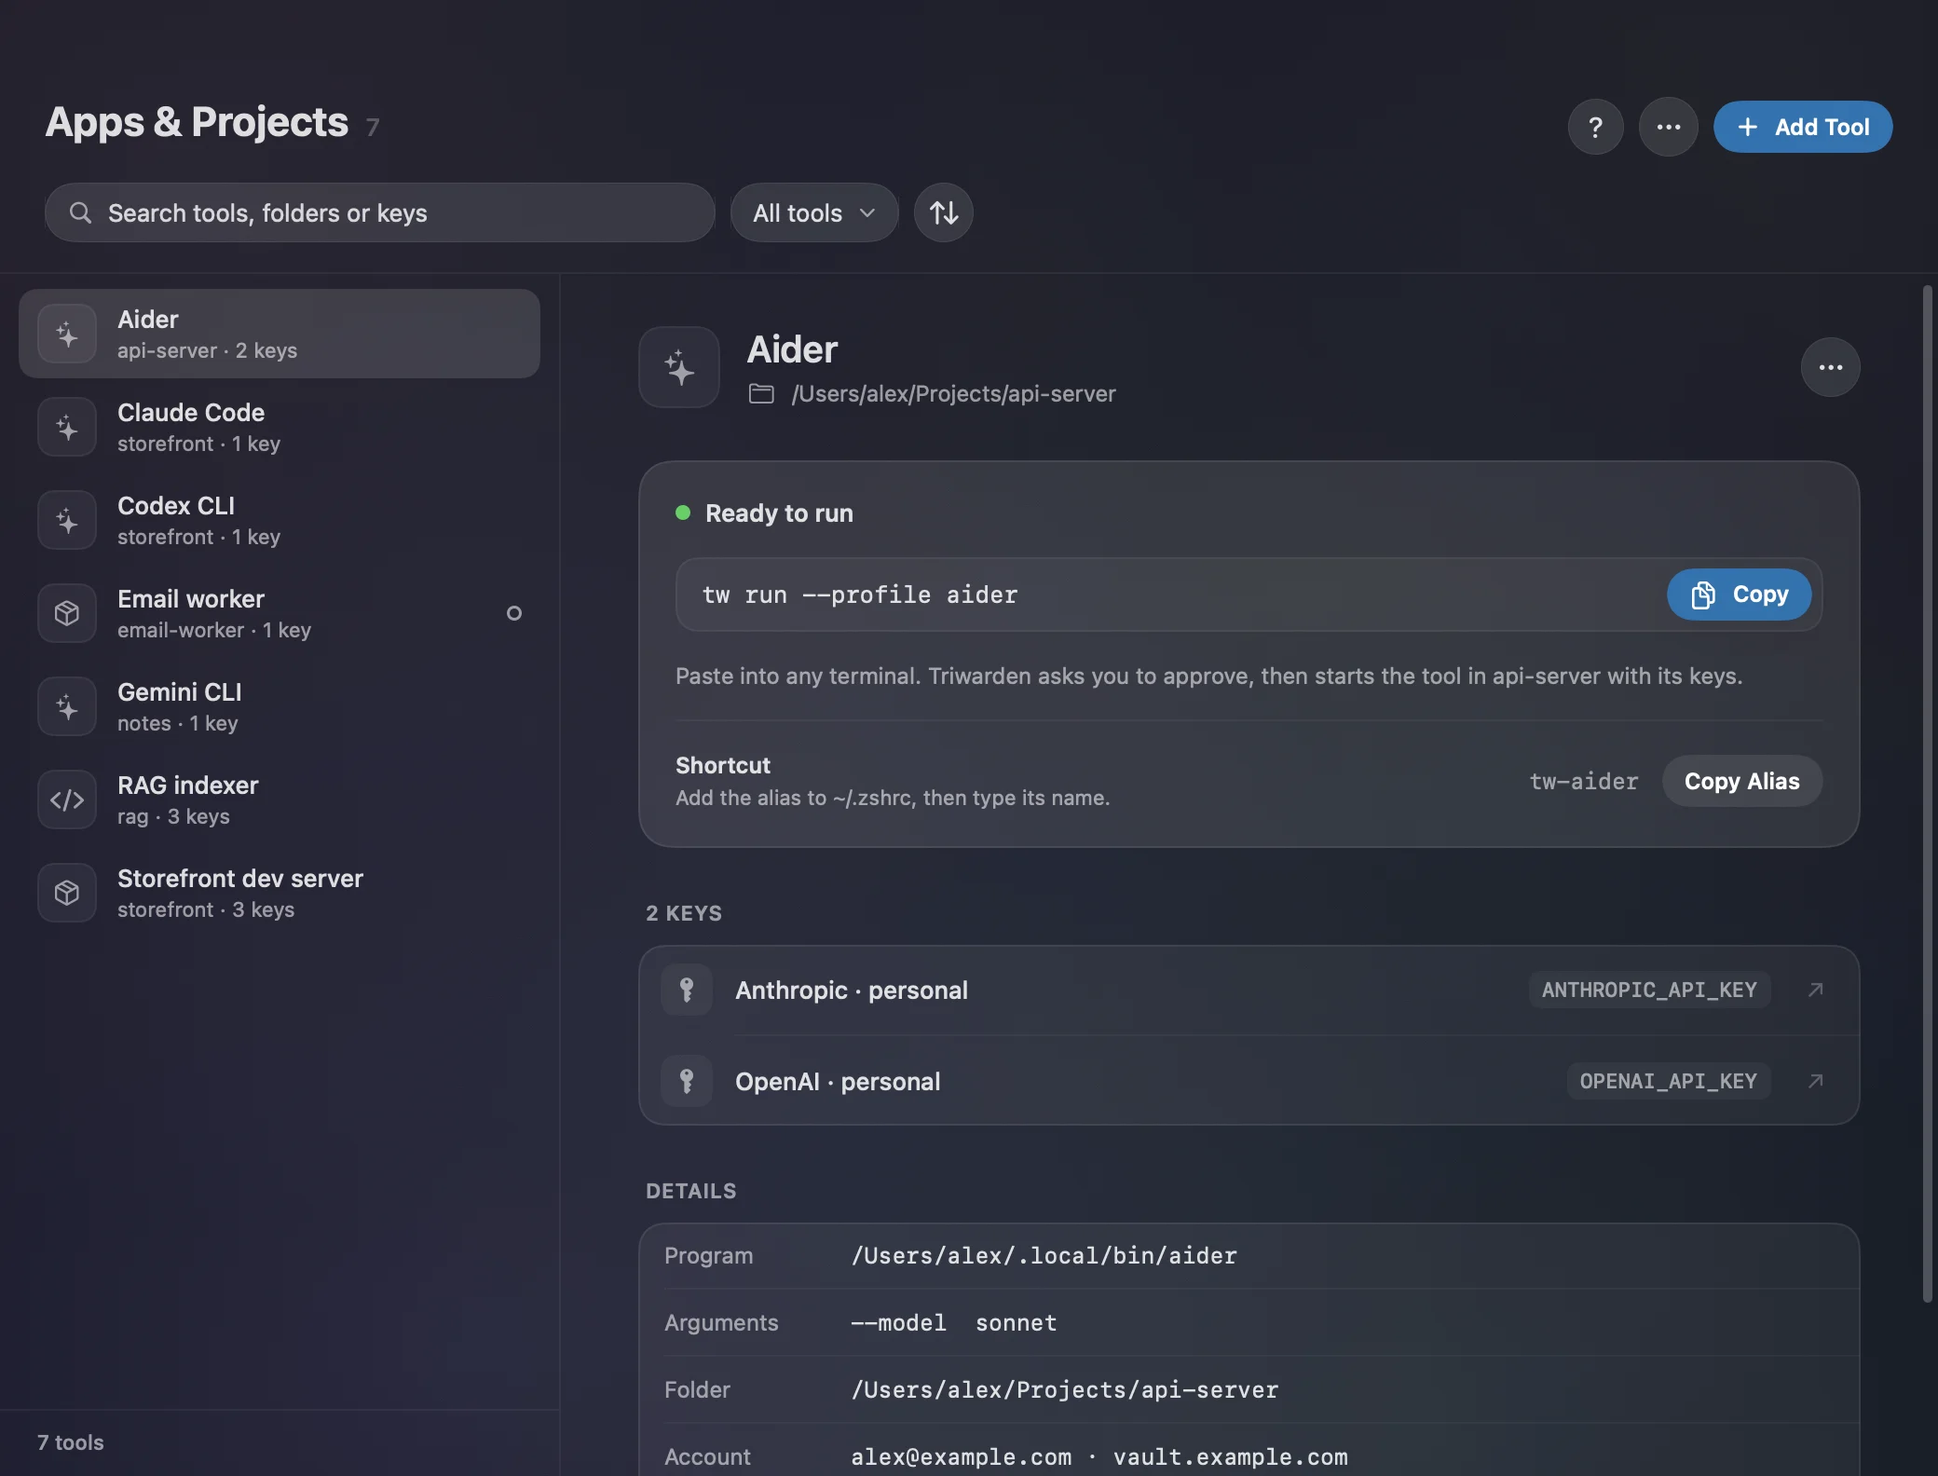
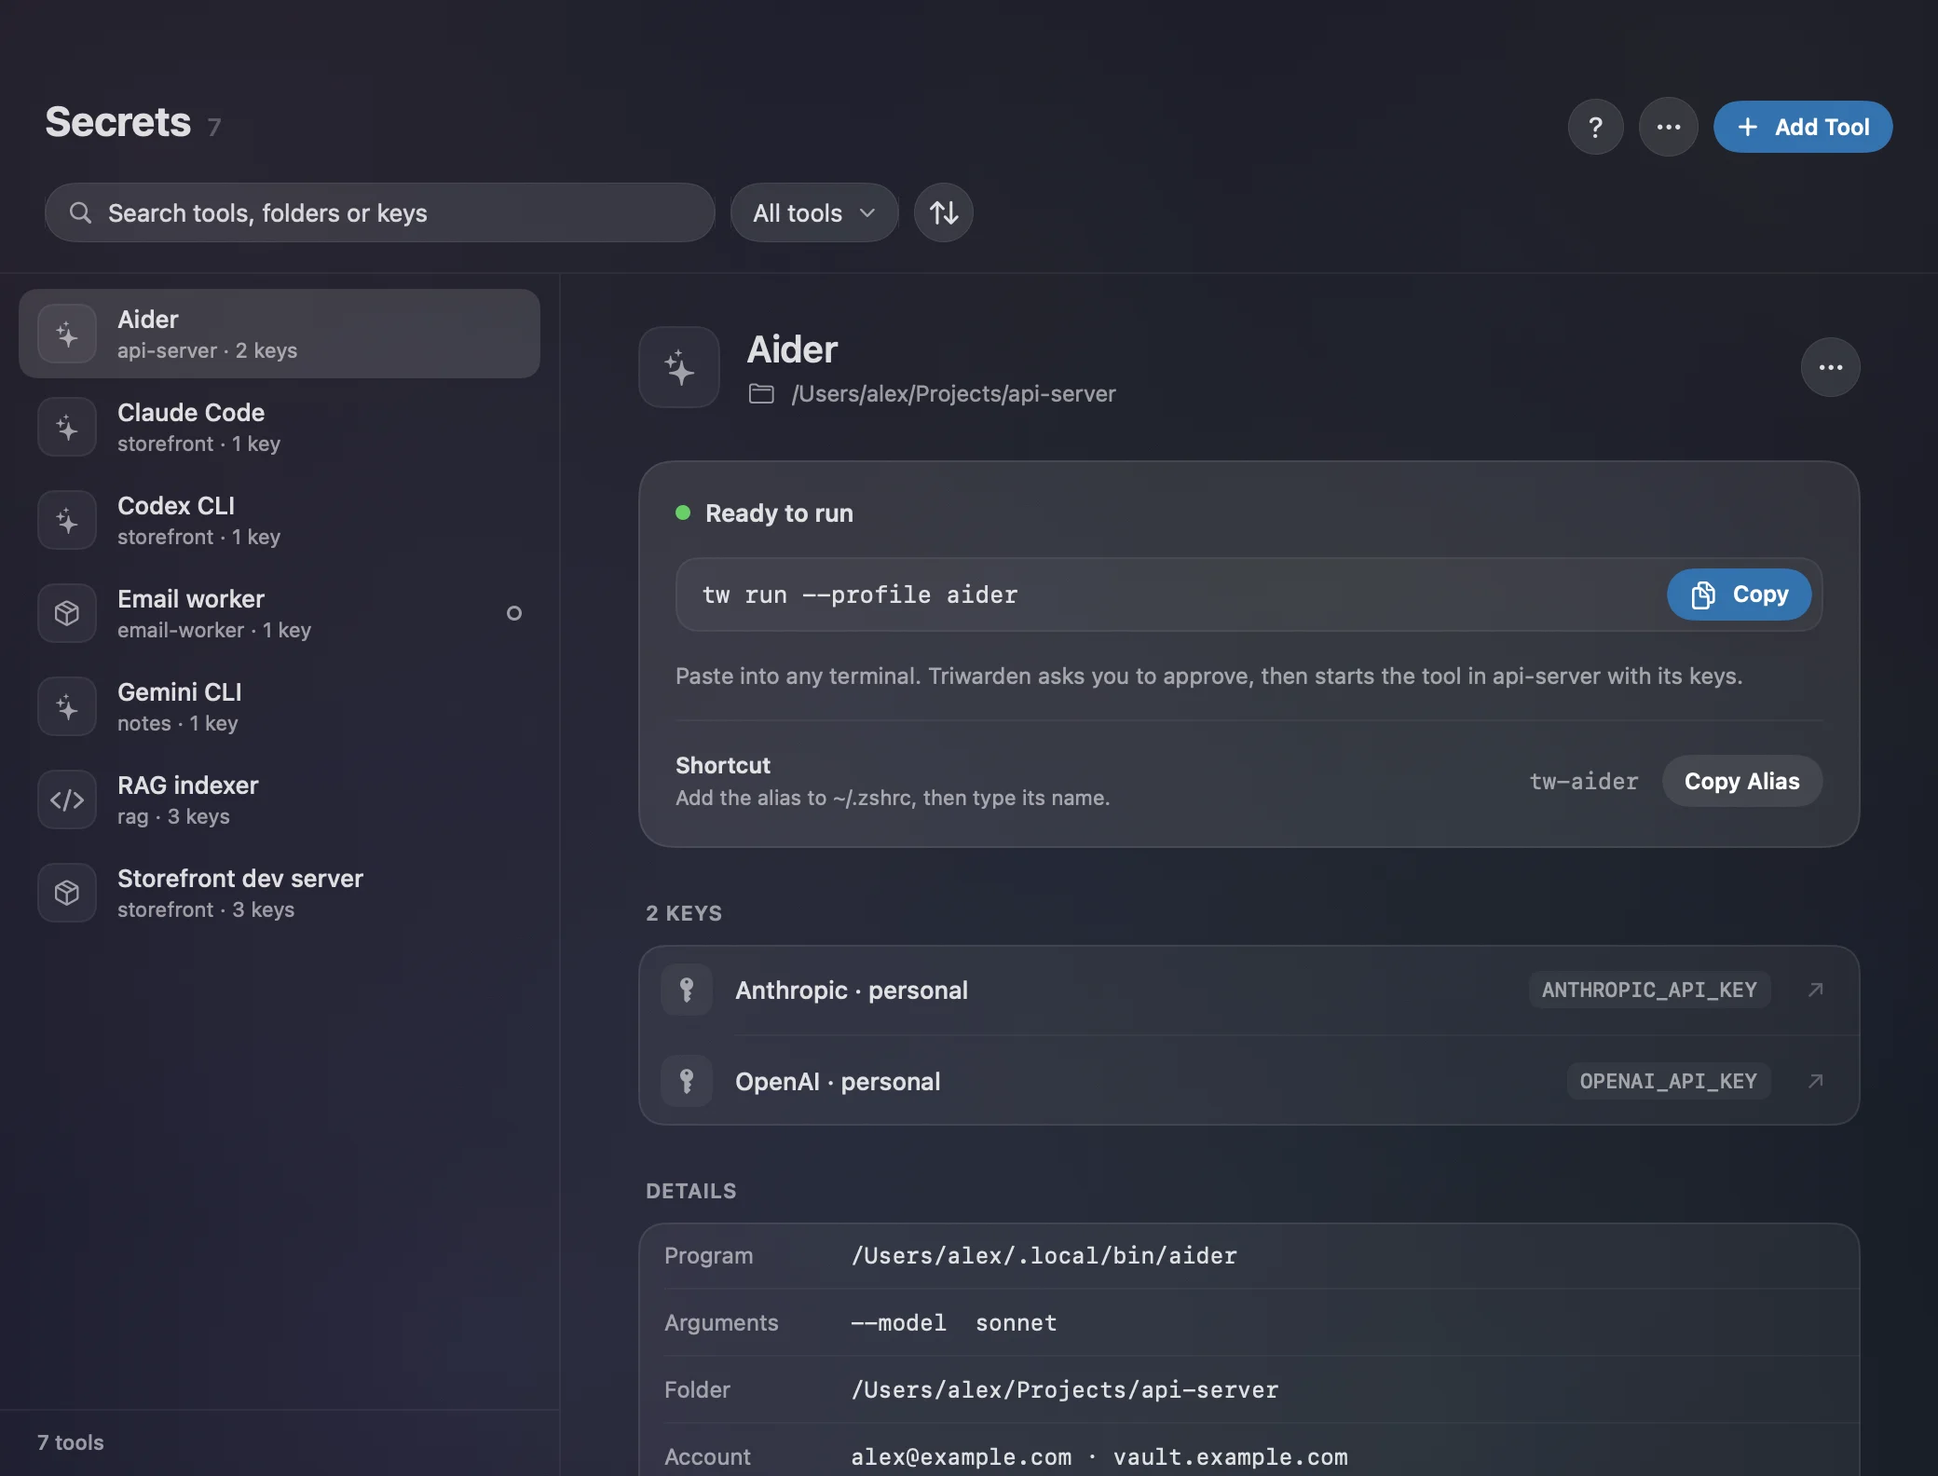
feat: use secrets as the global feature name

Changed region(s): [[0.9688, 0.1856, 1.0, 0.8662], [0.0, 0.0619, 0.1875, 0.0928]]

diff --git a/App/Sources/ToolSetupGuide.swift b/App/Sources/ToolSetupGuide.swift
@@ -243,7 +243,7 @@ struct ToolSetupGuide: View {
             disclosure("If the launch doesn't work") {
                 Text("No approval card: check that tw is installed and Triwarden is open.")
                 Text("Account locked or sync failed: unlock or reconnect, then run it again.")
-                Text("Missing key: open the tool in Apps & Projects and choose the key again.")
+                Text("Missing key: open the tool in Secrets and choose the key again.")
                 Text("Provider error: check the key in your provider account. Never paste key values into a report.")
             }
         }
@@ -265,7 +265,7 @@ struct ToolSetupGuide: View {
                 }
             }
             VStack(spacing: 0) {
-                tip("square.on.square", "Copy the launch from Apps & Projects", "Or run tw run and pick a saved tool.")
+                tip("square.on.square", "Copy the launch from Secrets", "Or run tw run and pick a saved tool.")
                 Divider().opacity(0.4).padding(.leading, 52)
                 tip("timer", "Approve for longer", "Choose 10 minutes or Until lock on the card to skip repeat prompts.")
                 Divider().opacity(0.4).padding(.leading, 52)
@@ -274,7 +274,7 @@ struct ToolSetupGuide: View {
             .background(Color.panelStrong, in: .rect(cornerRadius: 14, style: .continuous))
             .overlay(RoundedRectangle(cornerRadius: 14, style: .continuous).strokeBorder(Color.panelEdge))
             HStack(spacing: 10) {
-                Button("Open Apps & Projects") { dismiss(); model.requestedSection = .toolLaunches }.buttonStyle(.appPrimarySmall)
+                Button("Open Secrets") { dismiss(); model.requestedSection = .toolLaunches }.buttonStyle(.appPrimarySmall)
                 Button("Review Access") { dismiss(); model.requestedSection = .access }.buttonStyle(.appSecondarySmall)
                 Spacer()
                 if target != nil {
@@ -307,8 +307,8 @@ struct ToolSetupGuide: View {
                 .overlay(RoundedRectangle(cornerRadius: 14, style: .continuous).strokeBorder(Color.panelEdge))
                 if target != nil, !toolReady {
                     HStack(spacing: 10) {
-                        Text("Unlock its account, resume it, or fix its keys in Apps & Projects.").font(.system(size: 11)).foregroundStyle(.secondary)
-                        Button("Open Apps & Projects") { dismiss(); model.requestedToolSelection = selectedTool; model.requestedSection = .toolLaunches }
+                        Text("Unlock its account, resume it, or fix its keys in Secrets.").font(.system(size: 11)).foregroundStyle(.secondary)
+                        Button("Open Secrets") { dismiss(); model.requestedToolSelection = selectedTool; model.requestedSection = .toolLaunches }
                             .buttonStyle(.appSecondarySmall)
                     }.padding(.horizontal, 4)
                 }

diff --git a/App/Sources/SecretsSettings.swift b/App/Sources/SecretsSettings.swift
@@ -9,8 +9,8 @@ struct SecretsSettings: View {
     var body: some View {
         Form {
             Section {
-                Text("Save API keys in your vault. Use Apps & Projects to choose how a tool receives a saved key.")
-                Button("Open Apps & Projects") { model.showToolsAndProjects() }
+                Text("Save API keys in your vault. Use Secrets to choose how a tool receives a saved key.")
+                Button("Open Secrets") { model.showToolsAndProjects() }
                 Button("Setup Guide…") { model.showToolGuide() }
                 Button("Terminal Helper Setup…") { helperSetup = true }
             } header: { Text("Local Tool Access") }
@@ -87,7 +87,7 @@ private struct AdvancedSecretsSettings: View {
                 Text("Save a development command and its credential reference. Launches require approval unless temporary access is still active.")
                     .font(.caption).foregroundStyle(.secondary)
                 if !additionalBindings.isEmpty {
-                    Text("This tool also has \(additionalBindings.count) additional key bindings. They are preserved here; edit them in Apps & Projects.")
+                    Text("This tool also has \(additionalBindings.count) additional key bindings. They are preserved here; edit them in Secrets.")
                         .font(.caption).foregroundStyle(.secondary)
                 }
             } header: { Text("Local Secrets Agent") }
@@ -163,7 +163,7 @@ private struct AdvancedSecretsSettings: View {
                             .font(.system(.body, design: .monospaced))
                     }
                 }
-                Text("Install tw through Apps & Projects › Terminal Helper Setup. Keep Triwarden open and the required accounts unlocked. Each launch requires an online refresh. Command overrides are disabled.")
+                Text("Install tw through Secrets › Terminal Helper Setup. Keep Triwarden open and the required accounts unlocked. Each launch requires an online refresh. Command overrides are disabled.")
                     .font(.caption).foregroundStyle(.secondary)
             }
         }

diff --git a/App/Sources/SecretsController.swift b/App/Sources/SecretsController.swift
@@ -116,7 +116,7 @@ final class SecretsController: NSObject, NSWindowDelegate {
             try server.start()
             self.server = server
         } catch {
-            // Missing settings are normal on first run; other failures appear in Apps & Projects.
+            // Missing settings are normal on first run; other failures appear in Secrets.
             if FileManager.default.fileExists(atPath: store.fileURL.path) { lastError = error.localizedDescription }
             server?.stop(); server = nil
         }
@@ -144,7 +144,7 @@ final class SecretsController: NSObject, NSWindowDelegate {
         }
         let matches = session.items.filter { $0.id == binding.itemID && !$0.isDeleted && !$0.isArchived && $0.isSupported }
         guard matches.count == 1 else {
-            throw SecretsFailure("A selected key is missing or unavailable. Edit this tool in Apps & Projects and select the key again.")
+            throw SecretsFailure("A selected key is missing or unavailable. Edit this tool in Secrets and select the key again.")
         }
         guard !matches[0].reprompt else {
             throw SecretsFailure("This item requires an additional master-password prompt, which tw run does not yet support. Use a dedicated API credential item with an appropriate policy.")
@@ -160,7 +160,7 @@ final class SecretsController: NSObject, NSWindowDelegate {
             let catalog = try store.loadAll()
             guard let saved = catalog.first(where: { $0.name == request.profile.name }), saved.enabled, saved == request.profile,
                   try saved.revision() == request.revision else {
-                peer.reply(failure("The tool setup changed or is paused. Review it in Apps & Projects and run its saved command again."))
+                peer.reply(failure("The tool setup changed or is paused. Review it in Secrets and run its saved command again."))
                 return
             }
             try store.requireApprovedRevision(confirmation.read(), profiles: catalog)

diff --git a/App/Sources/ToolLaunchesPane.swift b/App/Sources/ToolLaunchesPane.swift
@@ -145,7 +145,7 @@ struct ToolLaunchesPane: View {
     private func header(total: Int) -> some View {
         VStack(alignment: .leading, spacing: 14) {
             HStack(alignment: .firstTextBaseline, spacing: 8) {
-                Text("Apps & Projects").font(.system(size: 22, weight: .bold))
+                Text("Secrets").font(.system(size: 22, weight: .bold))
                 if total > 0 {
                     Text(verbatim: String(total)).font(.system(size: 13, weight: .medium)).monospacedDigit().foregroundStyle(.tertiary)
                 }
@@ -156,7 +156,7 @@ struct ToolLaunchesPane: View {
                         .frame(width: 30, height: 30).modifier(HeaderChrome(shape: .circle))
                         .help("Setup Guide").accessibilityIdentifier("toolSetupGuide")
                     ActionMenu(entries: workspaceActions) { moreIcon }
-                        .accessibilityLabel("Apps & Projects options")
+                        .accessibilityLabel("Secrets options")
                     if total > 0 {
                         Button { replacement = nil; choosingKey = true } label: { Label("Add Tool", systemImage: "plus") }
                             .buttonStyle(.appPrimarySmall).accessibilityIdentifier("addTool")
@@ -281,7 +281,7 @@ struct ToolLaunchesPane: View {
                 if back {
                     HStack {
                         Button { compactDetail = false } label: {
-                            Label("Apps & Projects", systemImage: "chevron.left").font(.system(size: 13, weight: .medium))
+                            Label("Secrets", systemImage: "chevron.left").font(.system(size: 13, weight: .medium))
                         }.buttonStyle(.plain).accessibilityIdentifier("backToTools")
                         Spacer(minLength: 0)
                     }.padding(.horizontal, 24).padding(.top, 14)

diff --git a/App/Sources/HelpGuideView.swift b/App/Sources/HelpGuideView.swift
@@ -145,7 +145,7 @@ struct HelpTopic: Identifiable {
                   body: "Safari, Chrome and other apps can fill passwords, passkeys and one-time codes. A login saved for one site also fills on the sites it owns, such as a google.com login on youtube.com."),
         HelpTopic(id: "ssh", symbol: "terminal", title: "SSH agent",
                   body: "An SSH key in the vault can sign git commits and SSH sessions. Triwarden asks which app wants the signature. An app you trust is allowed next time without asking, and every answer is kept in a log on this Mac."),
-        HelpTopic(id: "local-api-keys", symbol: "key.horizontal", title: "API keys for apps and projects",
+        HelpTopic(id: "local-api-keys", symbol: "key.horizontal", title: "Secrets",
                   body: "Save a provider key or import an .env file. Set up an app or project, install the terminal helper, then approve your first launch. The setup guide opens the real forms and includes a dummy-key exercise. Open Access to review or revoke temporary approvals. Lock and revoke cannot recover keys that a program already received."),
         HelpTopic(id: "watchtower", symbol: "shield", title: "Watchtower",
                   body: "Watchtower marks weak, reused and breached passwords, and logins that still use http. The item list shows each issue. Change on Site opens that site’s own page for changing the password."),

diff --git a/App/Sources/VaultView.swift b/App/Sources/VaultView.swift
@@ -714,7 +714,7 @@ private struct Sidebar: View {
                     tool("One-Time Codes", symbol: "clock.badge.checkmark", .codes,
                          count: items.count(where: { !$0.isDeleted && !$0.isArchived && $0.totp != nil }))
                     tool("Generator", symbol: "dice", .generator)
-                    if model.showsAPIKeyTools { tool("Apps & Projects", symbol: "terminal", .toolLaunches) }
+                    if model.showsAPIKeyTools { tool("Secrets", symbol: "terminal", .toolLaunches) }
                     tool("Access", symbol: "checkmark.shield", .access)
                     tool("Watchtower", symbol: "checkmark.shield", .watchtower, count: model.watchtowerIssueCount)
                     // Your own ways of sorting items, and items set aside: kept (Archive) or on their way out (Trash).
@@ -4665,7 +4665,7 @@ struct SidebarCalmSelection: NSViewRepresentable {
     }
 }
 
-/// API-key navigation for the vault window: following a request to show a key, hiding Apps & Projects and Access when the
+/// API-key navigation for the vault window: following a request to show a key, hiding Secrets and Access when the
 /// feature is turned off, and the guide and helper sheets.
 private struct APIKeyNavigation: ViewModifier {
     @Environment(AppModel.self) private var model

diff --git a/App/Sources/SettingsView.swift b/App/Sources/SettingsView.swift
@@ -697,15 +697,15 @@ private struct DeveloperSettings: View {
         let agent = model.sshAgent!
         Form {
             Section {
-                Toggle("Show local API key features", isOn: $model.showsAPIKeyTools)
+                Toggle("Show Secrets", isOn: $model.showsAPIKeyTools)
                     .accessibilityIdentifier("showAPIKeyTools")
                 if model.showsAPIKeyTools {
                     Button("Start Setup Guide…") { model.showToolGuide() }.disabled(!model.isUnlocked)
-                    Text("Unlock your vault, then open Apps & Projects to start the guide.")
+                    Text("Unlock your vault, then open Secrets to start the guide.")
                         .font(.caption).foregroundStyle(.secondary)
                 }
             } header: { Text("Local API keys") } footer: {
-                Text("Show API Keys, Apps & Projects, and API-key actions. Hiding them keeps saved keys and configured launches.")
+                Text("Show API Keys, Secrets, and API-key actions. Hiding them keeps saved keys and configured launches.")
                     .font(.caption).foregroundStyle(.secondary)
             }
             Section {

diff --git a/App/Sources/CommandPalette.swift b/App/Sources/CommandPalette.swift
@@ -888,7 +888,7 @@ struct CommandPalette: View {
                                keywords: ["add", "create"]) { create(.secureNote) },
                 PaletteCommand(id: "new-api-key", title: String(localized: "New API Key"), symbol: "key.horizontal",
                                keywords: ["secret", "token", "provider", "add"]) { model.bringToFront(); model.beginAPIKey() },
-                PaletteCommand(id: "tools-projects", title: String(localized: "Apps & Projects"), symbol: "terminal",
+                PaletteCommand(id: "tools-projects", title: String(localized: "Secrets"), symbol: "terminal",
                                keywords: ["apps", "projects", "tools", "api", "key", "secret", "profile", "agent"]) { go(.toolLaunches) },
                 PaletteCommand(id: "install-tw", title: String(localized: "Install Terminal Helper"), symbol: "terminal",
                                keywords: ["tw", "cli", "command line", "path", "helper", "shell"]) { model.showHelperSetup() },

diff --git a/UITests/CISmokeTests.swift b/UITests/CISmokeTests.swift
@@ -79,7 +79,7 @@ final class CISmokeTests: XCTestCase {
         let secrets = app.outlines.staticTexts["Secrets"].firstMatch
         XCTAssertTrue(secrets.waitForExistence(timeout: 5))
         secrets.click()
-        XCTAssertTrue(app.buttons["Open Apps & Projects"].firstMatch.waitForExistence(timeout: 5))
+        XCTAssertTrue(app.buttons["Open Secrets"].firstMatch.waitForExistence(timeout: 5))
         app.buttons["Advanced Launch Settings…"].firstMatch.click()
         XCTAssertTrue(app.textFields["secretsProfileName"].waitForExistence(timeout: 5))
         XCTAssertTrue(app.buttons["saveSecretsProfile"].exists)

diff --git a/App/Sources/EnvKeyImportSheet.swift b/App/Sources/EnvKeyImportSheet.swift
@@ -267,7 +267,7 @@ struct EnvKeyImportSheet: View {
                         }
                     }
                 } else if model.secrets.profiles.count >= 64 {
-                    Text("Remove an unused tool from Apps & Projects before you add another.").font(.system(size: 12)).foregroundStyle(.secondary)
+                    Text("Remove an unused tool from Secrets before you add another.").font(.system(size: 12)).foregroundStyle(.secondary)
                 }
             }
             .padding(18).frame(maxWidth: .infinity, alignment: .leading)

diff --git a/App/Sources/EnvReferenceExport.swift b/App/Sources/EnvReferenceExport.swift
@@ -89,7 +89,7 @@ struct EnvReferenceExport: View {
         error = nil
         do {
             guard model.secrets.profiles.first(where: { $0.name == profile.name }) == profile else {
-                throw SecretsFailure("The tool settings changed. Close this window and open it again from Apps & Projects.")
+                throw SecretsFailure("The tool settings changed. Close this window and open it again from Secrets.")
             }
             let references = try EnvReferenceFile(profile: profile)
             let panel = NSSavePanel()

diff --git a/App/Sources/ToolLaunchSetup.swift b/App/Sources/ToolLaunchSetup.swift
@@ -353,7 +353,7 @@ struct ToolLaunchSetup: View {
             if let error = model.secrets.lastError { throw SecretsFailure(error) }
             model.requestedToolSelection = draft.name
             model.requestedSection = .toolLaunches
-            model.flash(String(localized: "Tool saved. Copy its launch from Apps & Projects."))
+            model.flash(String(localized: "Tool saved. Copy its launch from Secrets."))
             onSaved?(draft)
             dismiss()
         } catch { self.error = error.localizedDescription }
